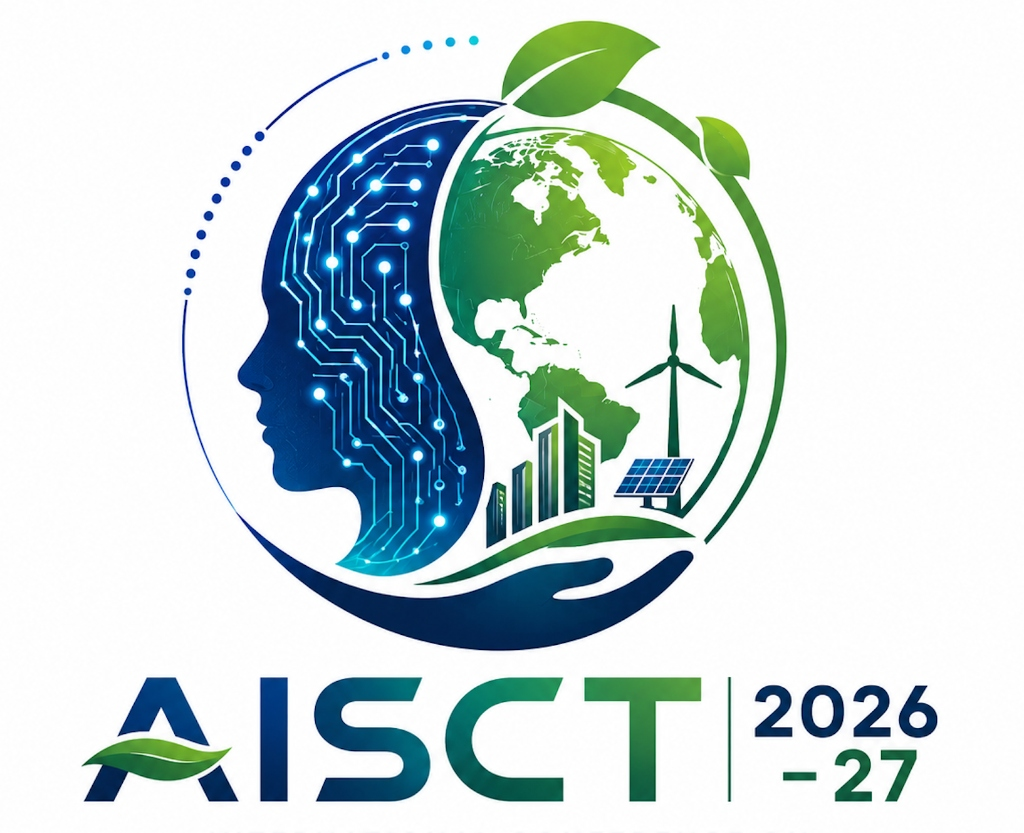
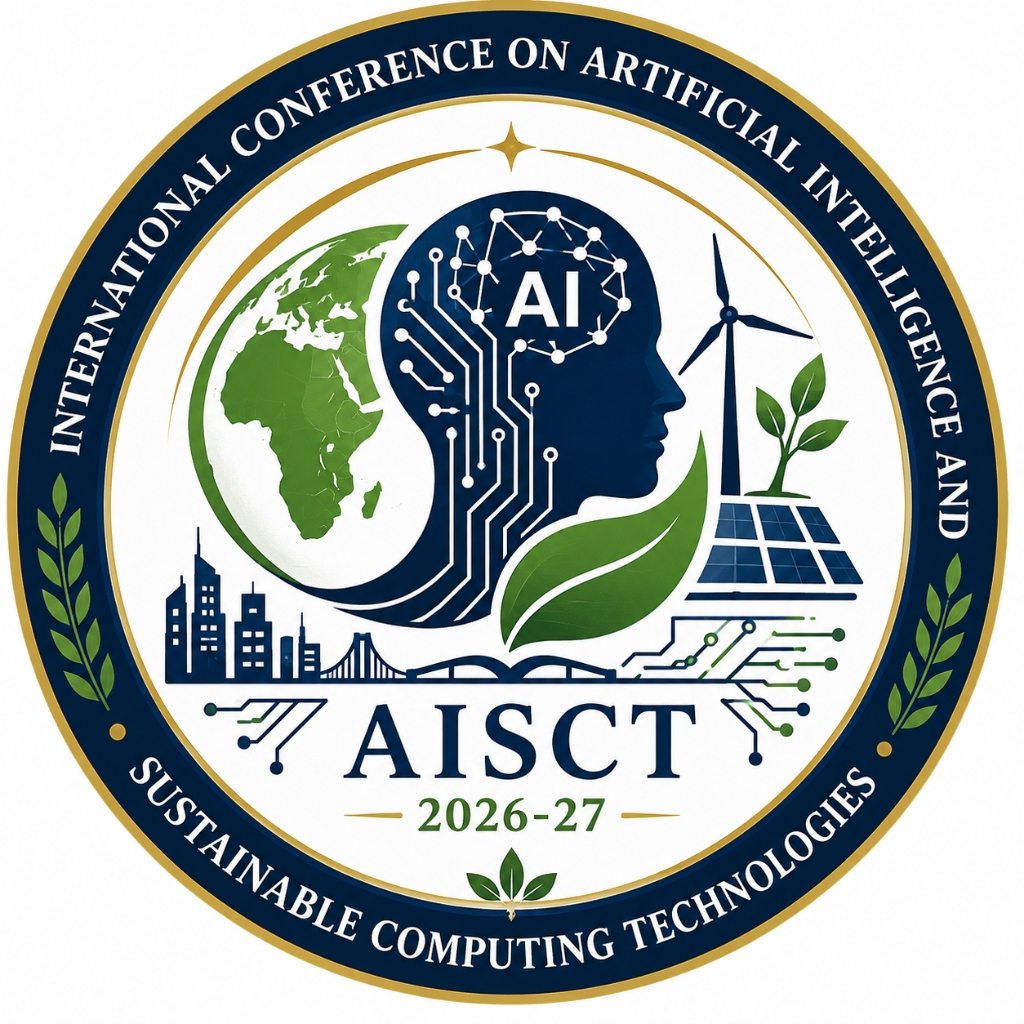
done

diff --git a/src/components/Hero.tsx b/src/components/Hero.tsx
@@ -28,16 +28,16 @@ const Hero = () => {
     <section id="home" className="relative min-h-screen w-full flex items-center justify-center overflow-hidden pt-16 sm:pt-20 md:pt-24">
 
       {/* Background */}
-      <div className="absolute inset-0 w-full h-full z-0 bg-black">
+      <div className="absolute inset-0 w-full h-full z-0 bg-[#0a1628]">
         <Image 
-          src="/assets/buddha_bg.jpg" 
+          src="/assets/ai_head_bg.png" 
           alt="AISCT 2026-27 Background" 
           fill
-          className="object-cover object-center w-full h-full opacity-60"
+          className="object-cover object-center w-full h-full opacity-95"
           priority
         />
-        {/* Dark Gradient Overlay for maximum legibility */}
-        <div className="absolute inset-0 bg-gradient-to-r from-black/80 via-black/50 to-black/80" />
+        {/* Gradient Overlay — darker left for text, clear right for AI head */}
+        <div className="absolute inset-0 bg-gradient-to-r from-[#0a1628]/80 via-[#0a1628]/30 to-transparent" />
       </div>
 
       <div className="container mx-auto px-3 sm:px-4 md:px-6 py-8 sm:py-12 md:py-16 relative z-10">

diff --git a/src/app/layout.tsx b/src/app/layout.tsx
@@ -31,6 +31,11 @@ export const metadata: Metadata = {
     description: "International Conference on Artificial Intelligence and Sustainable Computing Technologies (AISCT 2026-27), bringing together researchers, academics, and industry experts from around the world.",
   },
   robots: "index, follow",
+  icons: {
+    icon: "/assets/aisct-logo-new.jpg",
+    shortcut: "/assets/aisct-logo-new.jpg",
+    apple: "/assets/aisct-logo-new.jpg",
+  },
 };
 
 export const viewport: Viewport = {

diff --git a/src/components/Navbar.tsx b/src/components/Navbar.tsx
@@ -45,7 +45,7 @@ const Navbar = () => {
       className={`fixed top-0 left-0 right-0 z-50 transition-all duration-300 ${
         isScrolled || isMobileMenuOpen
           ? "bg-[#0a0a0a]/95 backdrop-blur-md border-b border-gray-800 py-3 md:py-4 shadow-lg shadow-black/50" 
-          : "bg-transparent mix-blend-difference py-4 md:py-6"
+          : "bg-transparent py-4 md:py-6"
       }`}
     >
       <div className="container mx-auto px-3 sm:px-4 md:px-6">
@@ -108,7 +108,7 @@ const Navbar = () => {
           {/* CTA Buttons */}
           <div className="hidden md:flex lg:flex items-center space-x-1 md:space-x-2 xl:space-x-4">
             <a href="/registration">
-              <button className="sketch-button !bg-white text-black text-xs md:text-sm xl:text-base">
+              <button className="sketch-button !bg-white !text-black border-2 !border-white font-bold text-xs md:text-sm xl:text-base hover:!bg-gray-100 transition-colors">
                 Register
               </button>
             </a>